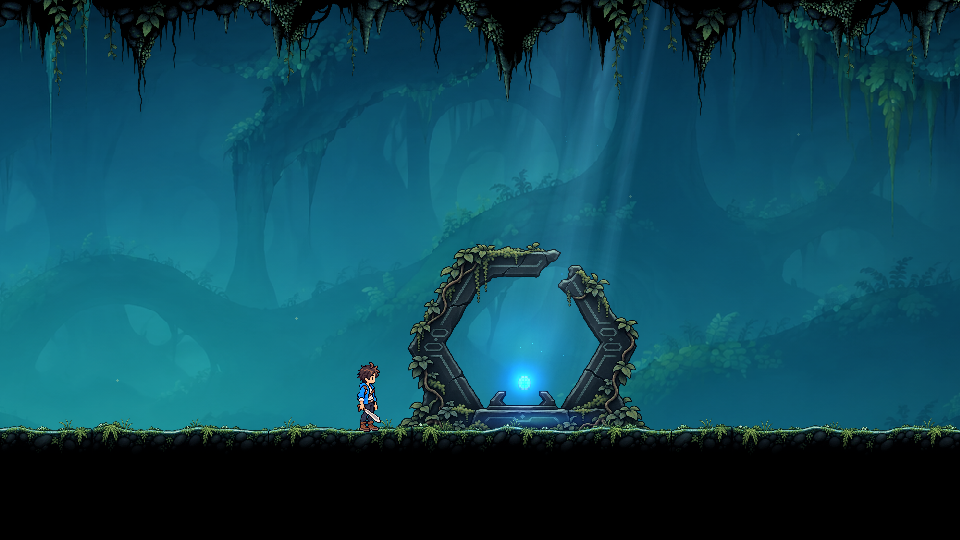
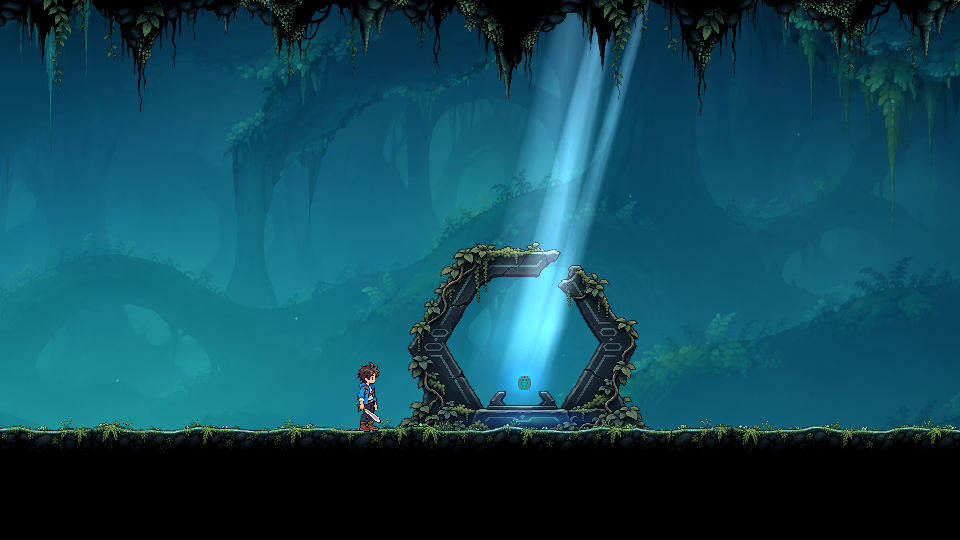
유물 획득

Changed region(s): [[0.5, 0.0, 0.6875, 0.7407]]

diff --git a/relic_shrine.py b/relic_shrine.py
@@ -43,17 +43,19 @@ class RelicShrine:
         pico.SDL_GetRenderDrawBlendMode(pico.renderer, byref(previous))
         pico.SDL_SetRenderDrawBlendMode(pico.renderer, pico.SDL_BLENDMODE_ADD)
         try:
-            for offset, width, opacity in ((-75, 125, 30), (20, 74, 47), (100, 32, 32)):
+            for offset, width, opacity in ((-65, 95, 65), (0, 55, 115), (78, 28, 78)):
                 vertices, indices = [], []
                 # Feather both sides and the foot instead of drawing solid triangles.
-                for row, (height, spread, fade) in enumerate(((ceiling + 24, .32, .45),
-                        (ceiling - 85, .48, 1), (y + 110, 1, .65), (0, 1.15, 0))):
-                    center = x + 175 * height / ceiling + offset
-                    for across, weight in ((-1, 0), (-.55, .5), (0, 1), (.55, .5), (1, 0)):
+                for row, (height, spread, fade) in enumerate(((ceiling + 24, .32, .7),
+                        (ceiling - 85, .48, 1), (y + 110, 1, .9),
+                        (y, 1.05, .22), (0, 1.15, 0))):
+                    descent = (height - y) / (ceiling - y)
+                    center = x + 175 * descent + offset * (.35 + .65 * descent)
+                    for across, weight in ((-1, 0), (-.55, .65), (0, 1), (.55, .65), (1, 0)):
                         sx, sy = camera.world_to_screen(center + width * spread * across, height)
                         vertices.append(pico.SDL_Vertex((sx, self.height - sy),
-                            (154, 211, 240, round(opacity * fade * weight * strength))))
-                    if row < 3:
+                            (177, 224, 250, round(opacity * fade * weight * strength))))
+                    if row < 4:
                         for col in range(4):
                             start = row * 5 + col
                             indices.extend((start, start + 5, start + 1,
@@ -61,12 +63,12 @@ class RelicShrine:
                 data = (pico.SDL_Vertex * len(vertices))(*vertices)
                 triangles = (c_int * len(indices))(*indices)
                 pico.SDL_RenderGeometry(pico.renderer, None, data, len(vertices), triangles, len(indices))
-            self.glow_at(camera, x + 175, ceiling - 18, 165, 75, 95 * strength)
+            self.glow_at(camera, x + 175, ceiling - 18, 165, 75, 140 * strength)
             self.glow_at(camera, x + 25, 25, 540, 90, 105 * strength)
-            self.glow_at(camera, x, 170, 460, 440, 48 * strength)
+            self.glow_at(camera, x, 170, 460, 440, 30 * strength)
             if not collected:
-                self.glow_at(camera, x, y, 225, 210, 155 * pulse)
-                self.glow_at(camera, x, y, 70, 65, 110 * pulse)
+                self.glow_at(camera, x, y, 225, 210, 85 * pulse)
+                self.glow_at(camera, x, y, 70, 65, 40 * pulse)
             for index in range(22):
                 height = 32 + (index * 137.7 + elapsed * (9 + index % 5)) % (ceiling - 65)
                 center = x + 175 * height / ceiling

diff --git a/.memoc/02-current-project-state.md b/.memoc/02-current-project-state.md
@@ -15,6 +15,10 @@ Last synced: 2026-11-05T03:23:05
 
 ## Current Status
 
+- 2026-11-23 중앙 유물 가독성 조정: 유물 높이 빛 감쇠 .65→.22, 후광85/40·넓은 여광30으로 감광. 조명을 배경 단계로 옮겨 유물을 나중에 그리므로 청록 문양이 가산광에 날아가지 않음. SDL 실제 미리보기3장 갱신·확대 검토, 유물 체크포인트2개 및 diff check 통과. 이전 main 커밋 자동검토 차단에 대한 승인 미수신으로 커밋 대기.
+
+- 2026-11-23 유물 천장 빛 선명도 보강: 세 빛줄기 폭 축소·알파65/115/78·청백색 중심 대비 강화, 유물 높이까지 밝기 유지하고 유물로 수렴. 천장 광원 알파140. 실제 SDL 미리보기3장 갱신·시각 검토, 카메라 검사4개 통과·diff check 통과.
+
 - 2026-11-23 유물 획득 장소 실제 적용: 기존 v1 육각 봉인석을 배경 장식으로 배치하고 `relic_shrine.py`에서 월드 고정 청백색 천장 빛·유물 후광·바닥 반사광·22개 부유 입자를 SDL로 표현. 획득 후 후광 제거·천장 빛55%, 기존 충돌/획득 유지. `tools/preview_relic_shrine.py`는 실제 방 렌더러로 획득 전후3장 저장. 새 이미지 생성 없음.
 
 - 2026-11-23 첫 맵 전투방 하강 착지→하단 연습길→왼쪽 첫 보스 B1 전용 오브젝트6종 생성. `assets/structures/map1-lower-route/`에 잔해·벽점프 기둥·돌다리·가시·길잡이 석등·B1 아치 PNG/정확 프롬프트/명세/README, 아치 편집 입력 원본 보관. 사용자 정정에 따라 맵2/최종 보스 자산은 납품 범위에서 제외. 기존 이끼 동굴·제단 형태, HK-GP18/HK-CT-05/SS-MG-02/SS-MG-03/SS-MF-04 참고. 6종 디코드·알파·생성원본 해시·시각 검토. 게임 배치·충돌·체크포인트 미적용. memoc는 npx 부재로 직접 기록.
@@ -269,6 +273,8 @@ Last synced: 2026-11-05T03:23:05
 <!-- memoc:snapshot:end -->
 
 ## Open Tasks
+
+- 2026-11-23 전투방 세 발판 120하향: 양옆 상면248, 중앙448. 골렘2마리는 중앙 최상단 양끝에서 시작, 각 절반 순찰. 점프 경로/골렘 관련17개 검사 통과. `docs/combat-lowered-combat.png`.
 
 - [x] 2026-11-23 지면 기둥 수정: 할로우 나이트풍 직사각형 돌·덩굴·이끼 전용 v2 적용 및 SDL 확인.
 - [x] 2026-11-23 화면 고정 덩굴/천장 진입 임계점의 배치 전환 제거, 맵 천장 고정 및 캐릭터 높이 추적 적용. 별도의 실제 좌표 순간이동 제보는 수동 재현 미확인.

diff --git a/.memoc/worklog/codex/2026-11-23-relic-shrine-lighting.md b/.memoc/worklog/codex/2026-11-23-relic-shrine-lighting.md
@@ -6,3 +6,13 @@
 - 실제 LowerCaves 렌더러로 기본/확대/획득후 PNG3장 생성·시각 검토.
 - 전체 unittest179개 실행: 177개 통과, 천장 테스트 초기화 누락2건. 테스트 fixture에 제단 초기화 추가 후 해당4개 전부 통과. 최종 필터 변경 후 유물 체크포인트2개 재검사 통과. py_compile·git diff --check 통과.
 - memoc 검색은 npm 네트워크 ENOTFOUND로 실행 불가, 로컬 메모리를 직접 확인·갱신.
+
+## 후속 선명도 조정
+
+- 사용자 요청으로 빛줄기 폭 축소, 알파65/115/78 및 청백색 중심 대비 강화. 유물 높이까지 밝기를 유지하며 세 갈래가 유물로 수렴하도록 조정. 천장 광원 알파140.
+- 실제 SDL 미리보기3장 갱신·시각 검토. 카메라 검사4개 및 diff check 통과.
+
+## 중앙 유물 가독성
+
+- 유물 높이 빛 감쇠 .65→.22, 후광85/40·넓은 여광30으로 낮춤. 조명은 배경 단계에서 그리고 유물은 그 위에 표시해 문양과 색 보존.
+- 실제 미리보기3장 갱신·확대 검토, 유물 체크포인트2개·diff check 통과. main 커밋은 이전 자동검토 거절에 대한 승인 대기.

diff --git a/.memoc/session-summary.md b/.memoc/session-summary.md
@@ -1,9 +1,9 @@
 # Session Summary
 Last: 2026-11-23 (Asia/Seoul)
 
-- 유물 제단·천장 청백색 빛·후광·부유 입자 게임 적용. 획득 후 약한 천장 빛 유지. `docs/relic-shrine-runtime-gallery.png`.
+- 유물 천장 빛 선명화. 유물 근처 빛·후광 감광, 조명 뒤 유물을 그려 문양 보존. `docs/relic-shrine-runtime-gallery.png`.
 - 최신 자산: 첫 맵 전투방 아래→하단 연습길→왼쪽 B1용6종. `assets/structures/map1-lower-route/README.md`. PNG·프롬프트·명세, 게임 미적용.
 - 본편2맵. 맵2 유적·복합 퍼즐·최종 보스. 지도 `docs/world-map-progress-2026-11-23.png`, 기획 `docs/INITIAL_DESIGN.md` 6절.
-- 구현은 맵1 하강 착지까지. 전투방 시야 개선 완료. B1·봉인문·맵2 예정.
+- 구현은 맵1 하강 착지까지. 전투방 발판120하향(상면248/448), 골렘은 위 발판 양끝·각 절반 순찰. B1·봉인문·맵2 예정.
 - 이미지 참고244장: `docs/reference-production-guide.md`.
 - 재개 `.memoc/04-handoff.md`. memoc는 npx 부재, 직접 기록.
